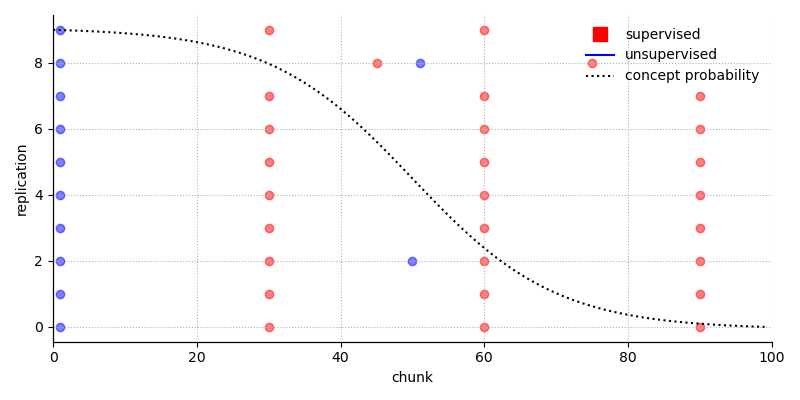
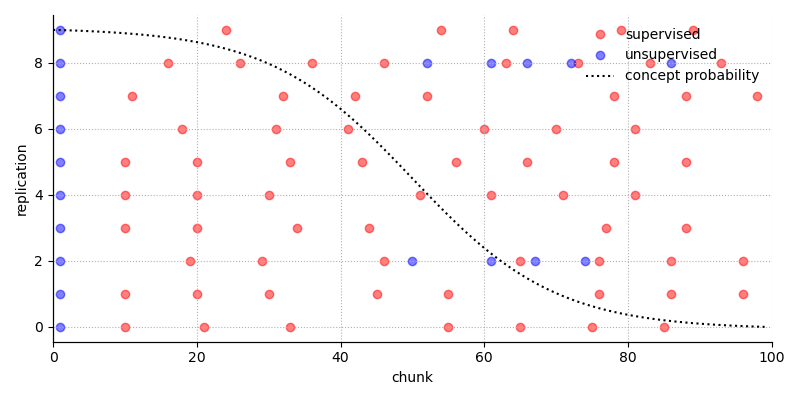
nic z tego nie bedzie

diff --git a/_experiment_pre2.py b/_experiment_pre2.py
@@ -37,8 +37,11 @@ for n in tqdm(range(n_reps)):
 
     clf = GaussianNB()
     
-    det_supp = DDM(drift_lvl=2.)
-    det_unsupp = OneClassDriftDetector(size = 500, dim = 20, percent = 0.995, nu=0.5)
+    det_supp = DDM(drift_lvl=1., skip=10)
+    det_unsupp = OneClassDriftDetector(size = 500, 
+                                       dim = 20, 
+                                       percent = 0.7, 
+                                       nu=0.5)
     
     for c in range(n_chunks):
         X, y = stream.get_chunk()
@@ -84,8 +87,10 @@ ax.set_xlabel('chunk')
 ax.set_ylabel('replication')
 
 handles, labels = plt.gca().get_legend_handles_labels()
-line1 = Line2D([0], [0], label='supervised', color='red', marker='s', markersize=10, linestyle='')
-line2 = Line2D([0], [0], label='unsupervised', color='blue')
+line1 = Line2D([0], [0], label='supervised', color='red', 
+               marker='o', alpha=0.5, linestyle='')
+line2 = Line2D([0], [0], label='unsupervised', color='blue',
+                marker='o', alpha=0.5, linestyle='')
 line3 = Line2D([0], [0], label='concept probability', color='black', ls=':')
 handles.extend([line1, line2, line3])
 plt.legend(handles=handles, frameon=False)
